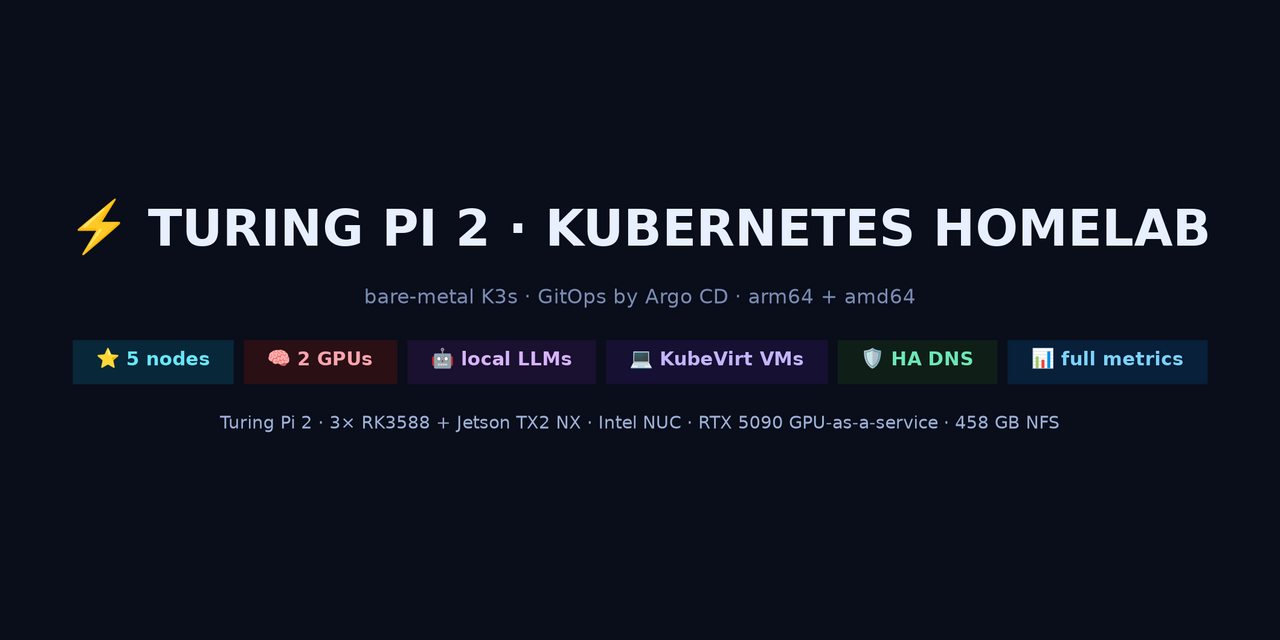
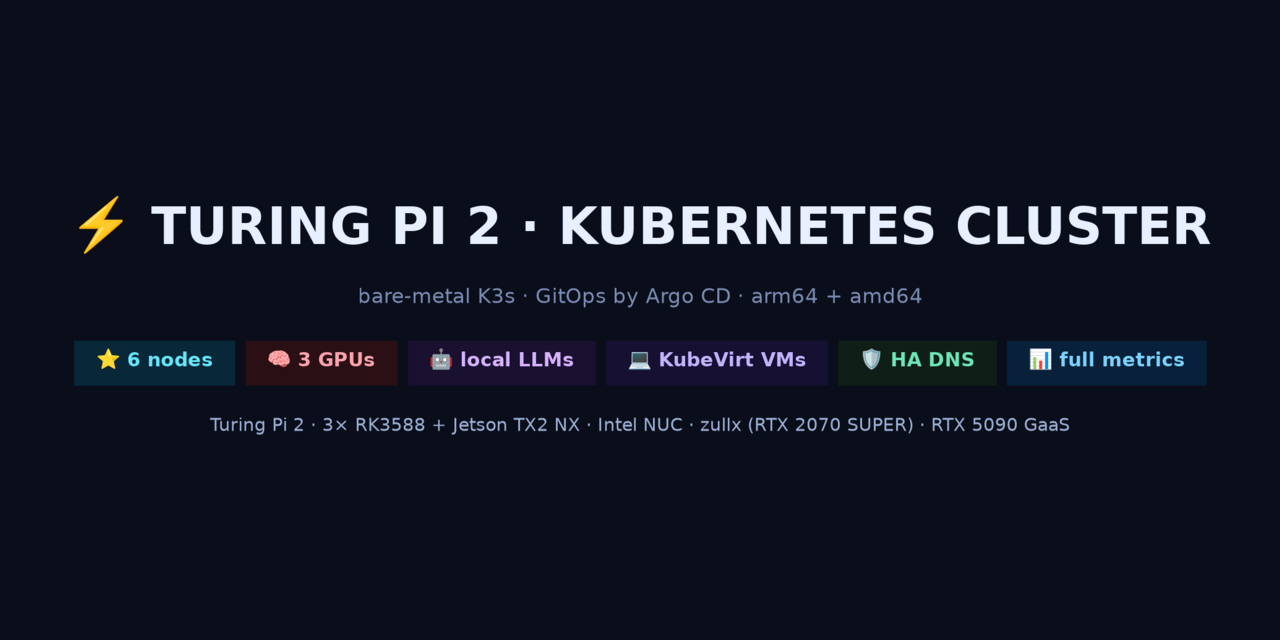
Add zullx (RTX 2070 SUPER GPU node) + NVMe storage; drop 'homelab' wording
- New 6th node zullx (amd64, Ryzen 7 3700X, 62GB, RTX 2070 SUPER): K3s GPU
  worker, nvidia.com/gpu, 1TB M.2 NVMe -> nvme-local StorageClass/PV.
- GitOps manifests + Argo apps: gpu-device-plugin-x86, nvme-storage.
- README/ARCHITECTURE/diagrams updated to 6 nodes, 3 GPUs, +860GB NVMe.
- Renamed 'homelab' -> 'cluster' throughout.

diff --git a/README.md b/README.md
@@ -1,4 +1,4 @@
-# 🚀 Turing Pi 2 — Bare-Metal Kubernetes Homelab
+# 🚀 Turing Pi 2 — Bare-Metal Kubernetes Cluster
 
 ![K3s](https://img.shields.io/badge/K3s-v1.36-FFC61C?logo=k3s&logoColor=black)
 ![Argo CD](https://img.shields.io/badge/GitOps-Argo%20CD-EF7B4D?logo=argo&logoColor=white)
@@ -24,6 +24,7 @@ Credentials live only in the local build doc and are never committed here.
 - **GitOps** — Argo CD (app-of-apps) reconciles everything from this git repo.
 - **GPU-as-a-service** — an RTX 5090 (32 GB) serves local LLMs (Ollama + Open WebUI) to the cluster without being a node.
 - **Schedulable Jetson GPU** — `nvidia.com/gpu` workloads (CUDA compute, raytracing, fractals) on the Tegra.
+- **Second GPU node (`zullx`)** — an AMD Ryzen / **RTX 2070 SUPER** box joined as a K3s GPU worker (62 GB RAM) with its **1 TB M.2 NVMe as fast cluster storage** (`nvme-local`).
 - **Real VMs** — KubeVirt runs a full Linux desktop alongside containers, reachable over **RDP at `192.168.1.105:32389`**.
 - **Redundant DNS** — primary + backup Pi-hole, auto-synced nightly, LAN-wide ad-blocking.
 - **458 GB shared storage** — NFS RWX served from the NUC to the whole cluster.
@@ -56,6 +57,7 @@ switch (single RJ45 uplink), and a **BMC** (baseboard management controller) for
 | **Workstation** · `.110` | AMD **9800X3D** + **RTX 5090 (32 GB, Blackwell)** | 64 GB DDR5-6000 | **GPU-as-a-service**: runs Ollama on the LAN so the cluster gets local LLM inference (~208 tok/s on llama3.1:8b) without the rig being a node. Also the kubectl/admin box. |
 | **Raspberry Pi 3** · `pihole` `.180` | BCM2837 (quad A53) | 1 GB · Debian 13 | **Pi-hole DNS — PRIMARY**. Network-wide ad/tracker blocking (~319k domains). |
 | **Raspberry Pi 3** · `pihole2` `.181` | BCM2837 (quad A53) | 1 GB · Debian 13 | **Pi-hole DNS — BACKUP**. Auto-synced from primary nightly (nebula-sync); DNS survives a Pi failure. |
+| **zullx** · `.216` | AMD **Ryzen 7 3700X** (8C/16T) + **RTX 2070 SUPER (8 GB)** | 62 GB RAM · 1 TB SATA (OS) + 1 TB NVMe | **x86 K3s GPU worker** — `nvidia.com/gpu` scheduling (CUDA/Stable Diffusion/TensorRT); its **M.2 NVMe** is the `nvme-local` StorageClass (fast PVCs). Ubuntu 24.04. |
 | **AmpliFi router** · `.1` | — | — | Gateway + DHCP; hands out both Pi-holes as DNS. |
 
 ---
@@ -68,7 +70,7 @@ switch (single RJ45 uplink), and a **BMC** (baseboard management controller) for
 | **GitOps** | Argo CD (app-of-apps) — this repo is the source of truth |
 | **Ingress** | Traefik (k3s built-in) + NodePort services |
 | **Storage** | local-path (per-node SSD) + `nfs-client` RWX (NFS from the NUC, ~458 GB) |
-| **GPU scheduling** | squat generic-device-plugin → `nvidia.com/gpu` on the Jetson |
+| **GPU scheduling** | `nvidia.com/gpu` — squat generic-device-plugin (Jetson) + official NVIDIA device plugin (zullx, RTX 2070 SUPER) |
 | **AI / LLM** | Ollama on the RTX 5090 + Open WebUI (ns `ai`) |
 | **Virtualization** | KubeVirt + CDI — full VMs (ns `kubevirt`/`cdi`/`vms`) |
 | **DNS** | Pi-hole v6 ×2 (HA, nebula-sync) |
@@ -112,10 +114,10 @@ Reachable on any node IP (e.g. `.101`); remotely via the Tailscale subnet router
 
 ## 📊 By the numbers
 
-- **5** nodes · **2** CPU architectures (arm64 + amd64)
-- **~34** CPU cores · **~83 GB** cluster RAM
-- **2** GPUs in play (RTX 5090 as a service + Jetson Pascal on-cluster) · **3× 6-TOPS NPUs** aboard the RK1s
-- **458 GB** shared RWX NFS · **9** namespaces · **8** Helm/GitOps-tracked stacks
+- **6** nodes · **2** CPU architectures (arm64 + amd64)
+- **~42** CPU cores · **~145 GB** cluster RAM
+- **3** GPUs in play (RTX 5090 as a service + Jetson Pascal + **RTX 2070 SUPER on zullx**) · **3× 6-TOPS NPUs** aboard the RK1s
+- **458 GB** RWX NFS **+ 860 GB** fast NVMe (`nvme-local`) · **9** namespaces
 - **7** always-on services exposed (Argo CD, Grafana, Headlamp, Open WebUI, RDP, Traefik web/websecure)
 
 ---
@@ -130,7 +132,7 @@ staged/                 Applications declared but NOT yet synced (adoption backl
 docs/                   ARCHITECTURE.md + topology & architecture diagrams (+ .dot sources)
 ```
 
-**Under Argo control now:** `gpu-device-plugin` (Jetson GPU scheduling) · `ollama-endpoint` (5090 LLM Service).
+**Under Argo control now:** `gpu-device-plugin` (Jetson) · `ollama-endpoint` (5090 LLM Service) · `gpu-device-plugin-x86` (zullx RTX 2070 SUPER) · `nvme-storage` (zullx `nvme-local` SC + PV).
 The rest of the cluster is inventoried in [`staged/`](staged/) for safe, incremental adoption.
 
 **Add an app:** drop manifests in `manifests/<app>/`, add an `Application` in `apps/<app>.yaml`, `git push` — Argo syncs it.

diff --git a/docs/ARCHITECTURE.md b/docs/ARCHITECTURE.md
@@ -33,6 +33,7 @@ The **Turing Pi 2 (v2.4)** carrier board holds 4 compute modules over an on-boar
 | rk1-w1 | 192.168.1.103 | N3 | Rockchip RK3588 (8-core) | 6-TOPS NPU (unused) | arm64 | 16 GB | General ARM64 worker. |
 | rk1-w2 | 192.168.1.104 | N4 | Rockchip RK3588 (8-core) | 6-TOPS NPU (unused) | arm64 | 16 GB | General ARM64 worker. |
 | nuc-flasher | 192.168.1.105 | ext | Intel i7-8559U (4c/8t) | Iris Plus 655 (QuickSync, OpenVINO) | amd64 | 31 GB | x86 worker · **NFS server** (458 GB RWX) · **KubeVirt VM host** · Jetson flash host. |
+| zullx | 192.168.1.216 | ext | AMD Ryzen 7 3700X (8c/16t) | **RTX 2070 SUPER (8 GB, TU104)** | amd64 | 62 GB | **x86 GPU worker** — `nvidia.com/gpu` (CUDA/SD/TensorRT); 1 TB M.2 NVMe → `nvme-local` SC. Ubuntu 24.04 / kernel 6.8 (cgroup v2). |
 
 Off-cluster but part of the mix:
 
@@ -48,10 +49,10 @@ on-board Gigabit switch with a single RJ45 uplink; the four modules share it.
 
 ## 2. K3s cluster
 
-- **Distribution:** K3s. Control plane `rk1-cp` on **v1.36.2+k3s1**; workers match, **except the
+- **6 nodes.** Control plane `rk1-cp` on **v1.36.2+k3s1**; workers match, **except the
   Jetson on v1.34.9** (its kernel 4.9 is cgroup v1, which k8s 1.36 removed — kept within kubelet skew).
-- **Mixed architecture:** arm64 (RK1s + Jetson) + amd64 (NUC). Use multi-arch images or pin arch
-  with `nodeSelector: kubernetes.io/arch: amd64`.
+- **Mixed architecture:** arm64 (RK1s + Jetson) + amd64 (NUC + **zullx**). Use multi-arch images or
+  pin arch with `nodeSelector: kubernetes.io/arch: amd64`.
 - **API server:** `https://192.168.1.101:6443`.
 - **cgroup notes:** NUC switched to cgroup v2 via GRUB `systemd.unified_cgroup_hierarchy=1`; the
   Jetson can't (kernel 4.9), hence its older K3s.
@@ -79,8 +80,8 @@ traefik + traefik-crd (k3s built-in 40.1.x).
   SSH **deploy key**.
 - **Flow:** `bootstrap/root.yaml` (watches `apps/`, non-recursive) → `apps/*.yaml` (Argo
   Applications) → `manifests/<app>/` (raw K8s YAML). `staged/` = declared-but-not-synced backlog.
-- **Under management now:** `gpu-device-plugin` (kube-system DaemonSet), `ollama-endpoint`
-  (ai Service). Both adopted in place, Synced/Healthy.
+- **Under management now:** `gpu-device-plugin` (Jetson DaemonSet), `ollama-endpoint` (ai Service),
+  `gpu-device-plugin-x86` (zullx NVIDIA plugin + RuntimeClass), `nvme-storage` (zullx `nvme-local` SC + PV).
 - **Adoption backlog** (`staged/`): monitoring, nfs-provisioner, KubeVirt/CDI, open-webui,
   desktop-vm, pihole-exporter, tegrastats-exporter.
 
@@ -90,6 +91,7 @@ traefik + traefik-crd (k3s built-in 40.1.x).
 |--------------|-------------|---------|-------|
 | local-path (default) | rancher.io/local-path | per-node SSD | RWO |
 | nfs-client | nfs-subdir-external-provisioner | NUC .105 `/srv/nfs/k3s` (~458 GB) | RWX, Retain |
+| nvme-local | (static local PV, no-provisioner) | zullx .216 M.2 NVMe `/data` (860 GB) | RWO, Retain |
 
 | PVC | Namespace | Class | Size |
 |-----|-----------|-------|------|
@@ -106,6 +108,9 @@ traefik + traefik-crd (k3s built-in 40.1.x).
 - **Jetson (in-cluster):** `nvidia-gpu-device-plugin` (squat generic-device-plugin) advertises
   `nvidia.com/gpu: 10` on the Jetson (stock NVIDIA plugin can't detect JetPack 4.6). Use with
   `runtimeClassName: nvidia` + `resources.limits: {nvidia.com/gpu: 1}`. **GitOps-managed.**
+- **zullx — RTX 2070 SUPER (in-cluster):** official NVIDIA `k8s-device-plugin` (DaemonSet, runs under
+  RuntimeClass `nvidia`) advertises `nvidia.com/gpu: 1` on zullx. Real x86 CUDA — Stable Diffusion,
+  TensorRT, bigger models than the Jetson. **GitOps-managed** (`gpu-device-plugin-x86`).
 - **RTX 5090 (GPU-as-a-service):** the workstation runs Ollama on the LAN; the cluster consumes it
   via the selector-less `ai/ollama` Service → `192.168.1.110:11434`. The rig is **not** a node
   (decoupled from Windows reboots). Open WebUI (ns `ai`) is the front-end. **GitOps-managed** (Service).
